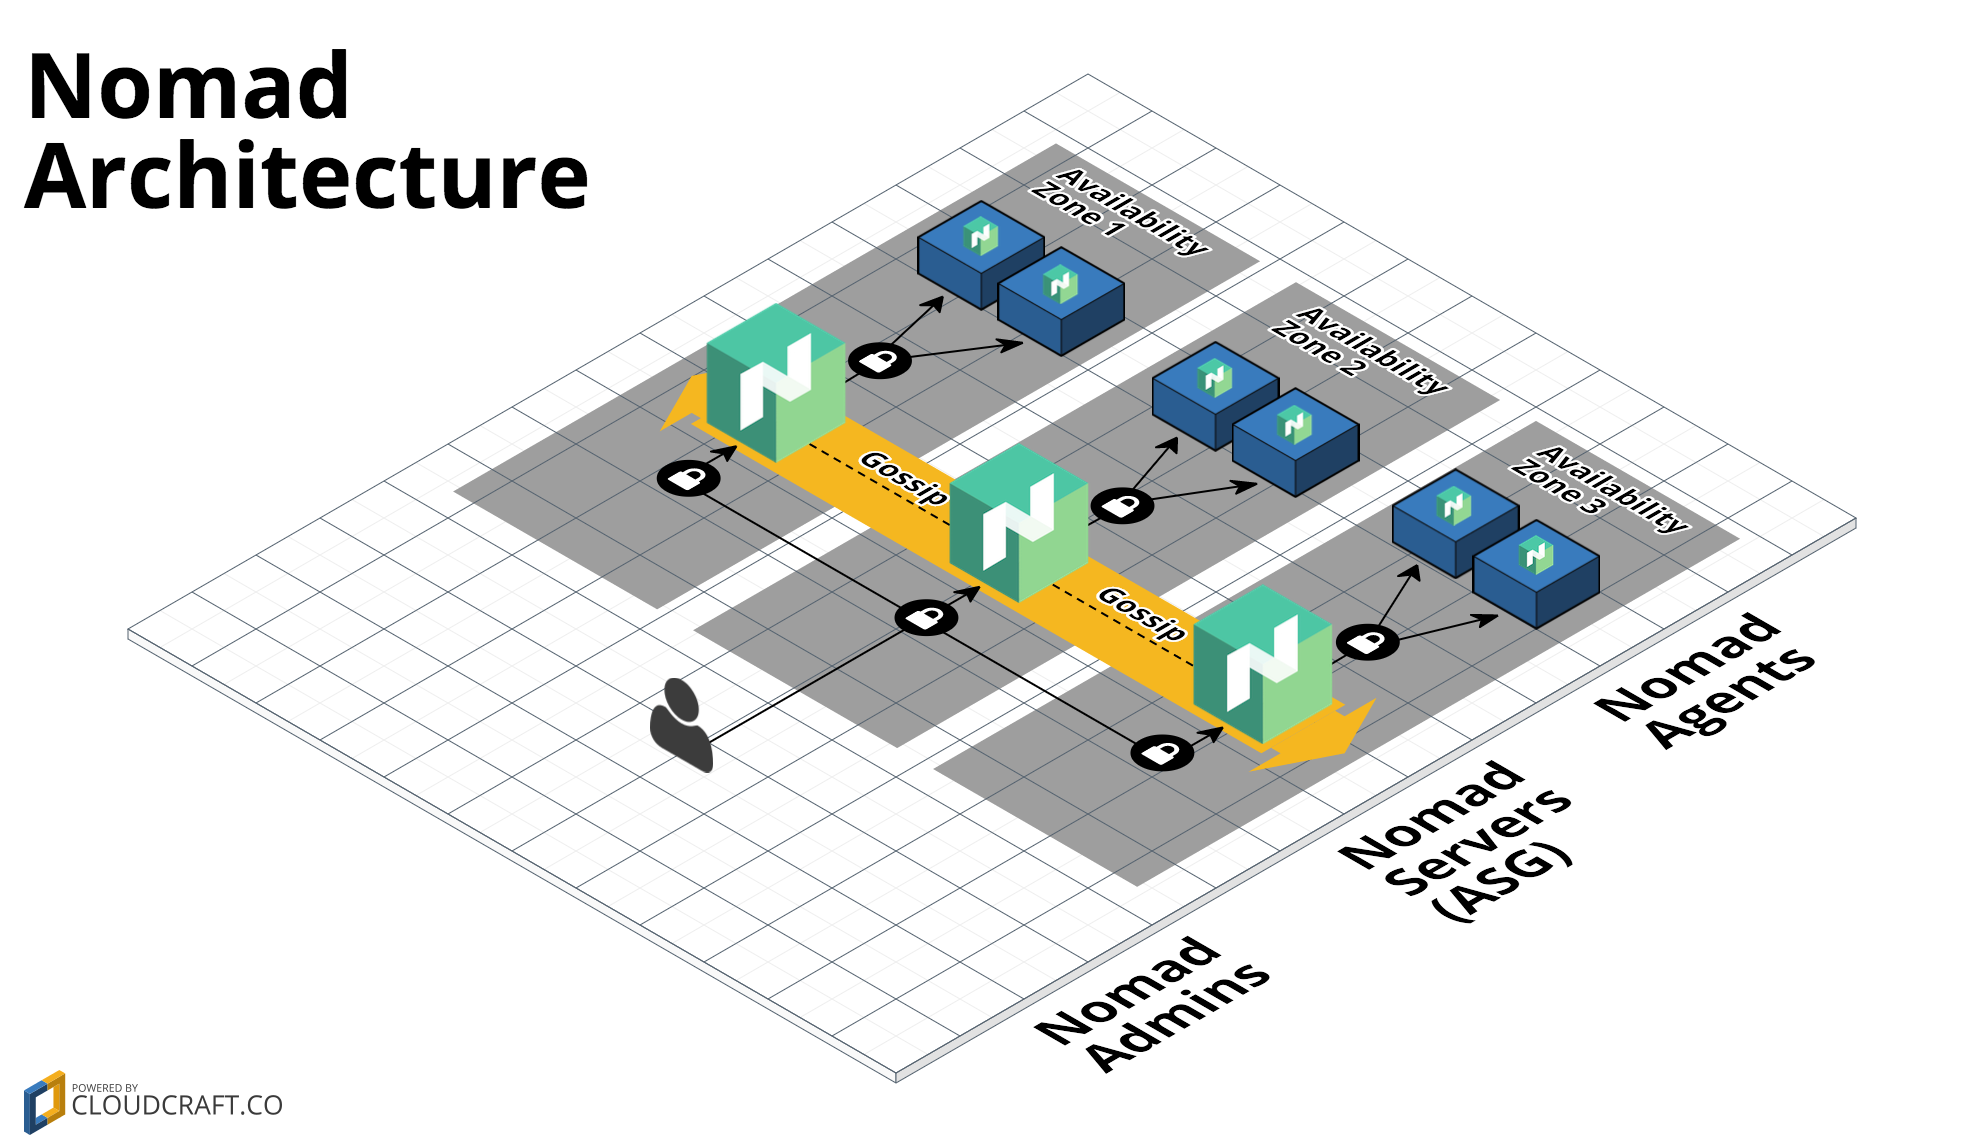
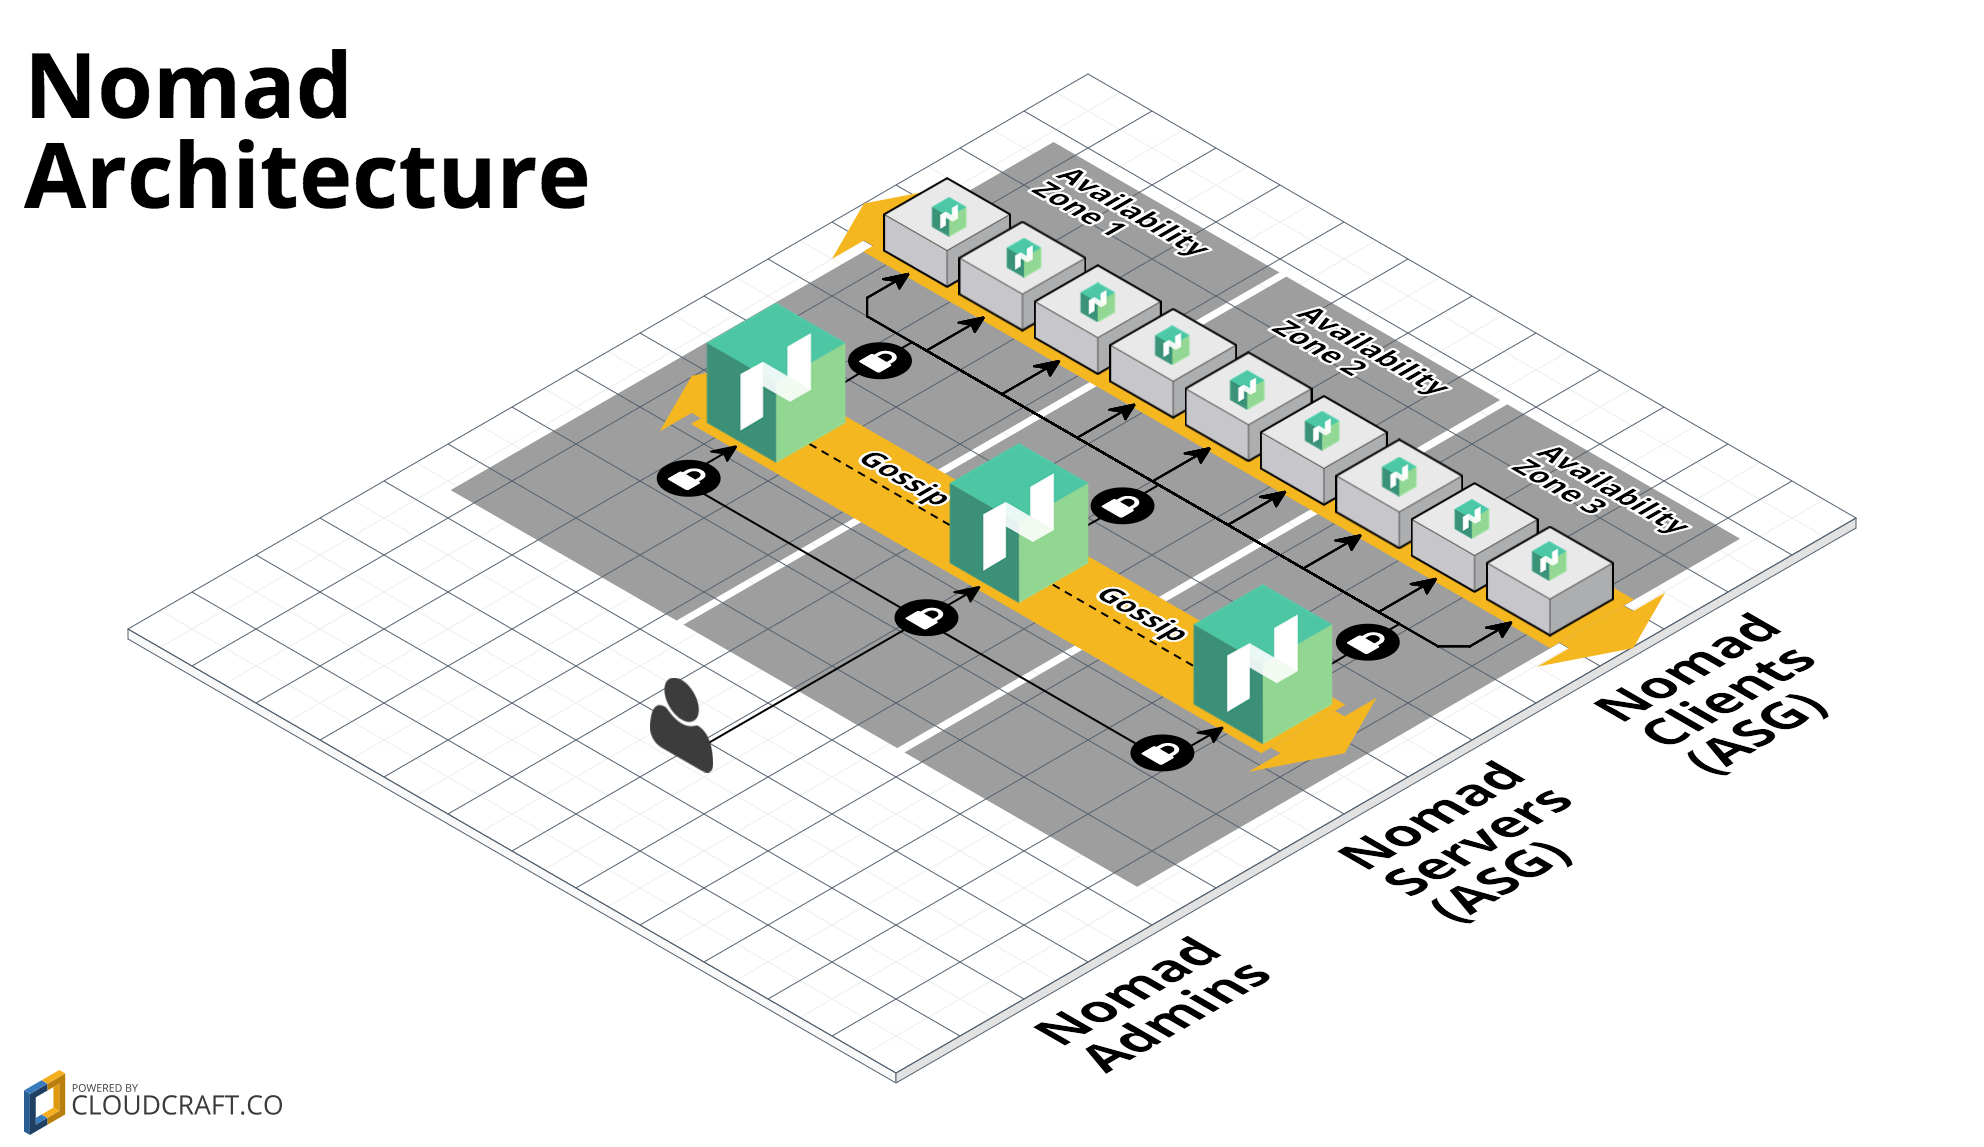
Add explanation and support for Nomad servers and Nomad clients

diff --git a/README.md b/README.md
@@ -2,7 +2,9 @@
 
 This repo contains a Blueprint for how to deploy a [Nomad](https://www.nomadproject.io/) cluster on 
 [AWS](https://aws.amazon.com/) using [Terraform](https://www.terraform.io/). Nomad is a distributed, highly-available 
-data-center aware scheduler. 
+data-center aware scheduler. A Nomad cluster typically includes a small number of server nodes, which are responsible 
+for being part of the [concensus quorum](https://www.consul.io/docs/internals/consensus.html), and a larger number of 
+client nodes, which are used for running jobs:
 
 ![Nomad architecture](/_docs/architecture.png)
 
@@ -16,8 +18,9 @@ This Blueprint includes:
   [User Data](http://docs.aws.amazon.com/AWSEC2/latest/UserGuide/user-data.html#user-data-shell-scripts) 
   script to fire up Nomad while the server is booting.
 
-* [nomad-cluster](/modules/nomad-cluster): Terraform code to deploy a Nomad AMI across an [Auto Scaling 
+* [nomad-cluster](/modules/nomad-cluster): Terraform code to deploy a cluster of Nomad servers using an [Auto Scaling 
   Group](https://aws.amazon.com/autoscaling/).
+    
   
 
 
@@ -59,10 +62,11 @@ Click on each of the modules above for more details.
 
 <!-- TODO: update the consul-aws-blueprint URL to the final URL -->
 
-To use Nomad, you must also have a [Consul](https://www.consul.io/) cluster deployed. The easiest way to deploy Consul
-on AWS is to use the [Consul AWS Blueprint](https://github.com/gruntwork-io/consul-aws-blueprint).
-
-You have two deployment options:
+To run a Nomad cluster, you need to deploy a small number of server nodes (typically 3), which are responsible 
+for being part of the [concensus quorum](https://www.consul.io/docs/internals/consensus.html), and a larger number of 
+client nodes, which are used for running jobs. You must also have a [Consul](https://www.consul.io/) cluster deployed
+(see the [Consul AWS Blueprint](https://github.com/gruntwork-io/consul-aws-blueprint)) in one of the following 
+configurations:
 
 1. [Deploy Nomad and Consul in the same cluster](#deploy-nomad-and-consul-in-the-same-cluster)
 1. [Deploy Nomad and Consul in separate clusters](#deploy-nomad-and-consul-in-separate-clusters)
@@ -70,16 +74,20 @@ You have two deployment options:
 
 ### Deploy Nomad and Consul in the same cluster
 
-1. Use the scripts from the [install-consul 
-   module](https://github.com/gruntwork-io/consul-aws-blueprint/tree/master/modules/install-consul) and the
-   [install-nomad module](/modules/install-nomad) in a Packer template to create an AMI with Consul and Nomad.
-1. Deploy that AMI across an Auto Scaling Group using the [consul-cluster 
-   module](https://github.com/gruntwork-io/consul-aws-blueprint/tree/master/modules/consul-cluster).
-1. Execute the [run-consul script](https://github.com/gruntwork-io/consul-aws-blueprint/tree/master/modules/run-consul) 
-   during boot on each Instance in the Auto Scaling Group to have that Instance automatically find other Instances and 
-   form a Consul cluster.
-1. Execute the [run-nomad script](/modules/run-nomad) during boot on each Instance in the Auto Scaling Group to 
-   have that Instance automatically find other Instances and form a Nomad cluster.
+1. Use the [install-consul 
+   module](https://github.com/gruntwork-io/consul-aws-blueprint/tree/master/modules/install-consul) from the Consul AWS
+   Blueprint and the [install-nomad module](/modules/install-nomad) from this Blueprint in a Packer template to create 
+   an AMI with Consul and Nomad.
+1. Deploy a small number of server nodes (typically, 3) using the [consul-cluster 
+   module](https://github.com/gruntwork-io/consul-aws-blueprint/tree/master/modules/consul-cluster). Execute the 
+   [run-consul script](https://github.com/gruntwork-io/consul-aws-blueprint/tree/master/modules/run-consul) and the
+   [run-nomad script](/modules/run-nomad) on each node during boot, setting the `--server` flag to `true` in both 
+   scripts.
+1. Deploy as many client nodes as you need using the [consul-cluster 
+   module](https://github.com/gruntwork-io/consul-aws-blueprint/tree/master/modules/consul-cluster). Execute the 
+   [run-consul script](https://github.com/gruntwork-io/consul-aws-blueprint/tree/master/modules/run-consul) and the
+   [run-nomad script](/modules/run-nomad) on each node during boot, setting the `--server` flag to `false` in both 
+   scripts.
 
 Check out the [nomad-consul-colocated-cluster example](/examples/nomad-consul-colocated-cluster example) for working
 sample code.
@@ -90,10 +98,11 @@ sample code.
 1. Deploy a standalone Consul cluster by following the instructions in the [Consul AWS 
    Blueprint](https://github.com/gruntwork-io/consul-aws-blueprint).
 1. Use the scripts from the [install-nomad module](/modules/install-nomad) in a Packer template to create a Nomad AMI.
-1. Deploy that AMI across an Auto Scaling Group using the [nomad-cluster module](/modules/nomad).
-1. Execute the [run-nomad script](/modules/run-nomad) during boot on each Instance in the Auto Scaling Group to 
-   have that Instance automatically find other Instances and form a Nomad cluster. You will need to configure each 
-   Instance with the connection details for your standalone Consul cluster.
+1. Deploy a small number of server nodes (typically, 3) using the [nomad-cluster module](/modules/nomad). Execute the    
+   [run-nomad script](/modules/run-nomad) on each node during boot, setting the `--server` flag to `true`. You will 
+   need to configure each node with the connection details for your standalone Consul cluster.   
+1. Deploy as many client nodes as you need using the [nomad-cluster module](/modules/nomad). Execute the 
+   [run-nomad script](/modules/run-nomad) on each node during boot, setting the `--server` flag to `false`.
 
 Check out the [nomad-consul-separate-cluster example](/examples/nomad-consul-separate-cluster example) for working
 sample code.

diff --git a/modules/run-nomad/README.md b/modules/run-nomad/README.md
@@ -14,10 +14,17 @@ There is a good chance it will work on other flavors of Debian, CentOS, and RHEL
 ## Quick start
 
 This script assumes you installed it, plus all of its dependencies (including Nomad itself), using the [install-nomad 
-module](/modules/install-nomad). The default install path is `/opt/nomad/bin`, so to start Nomad, you just run:
+module](/modules/install-nomad). The default install path is `/opt/nomad/bin`, so to start Nomad in server mode, you 
+run:
 
 ```
-/opt/nomad/bin/run-nomad --cluster-size 3
+/opt/nomad/bin/run-nomad --server true --cluster-size 3
+```
+
+To start Nomad in client mode, you run:
+
+```
+/opt/nomad/bin/run-nomad --server false --cluster-size 3
 ```
 
 This will:
@@ -35,7 +42,7 @@ This will:
 We recommend using the `run-nomad` command as part of [User 
 Data](http://docs.aws.amazon.com/AWSEC2/latest/UserGuide/user-data.html#user-data-shell-scripts), so that it executes
 when the EC2 Instance is first booting. If you are running Consul on the same server, make sure to use this script 
-*after* Consul has booted. After runing `run-nomad` on that initial boot, the `supervisord` configuration 
+*after* Consul has booted. After running `run-nomad` on that initial boot, the `supervisord` configuration 
 will automatically restart Nomad if it crashes or the EC2 instance reboots.
 
 See the [nomad-consul-colocated-cluster example](/examples/nomad-consul-colocated-cluster example) and 
@@ -48,23 +55,26 @@ See the [nomad-consul-colocated-cluster example](/examples/nomad-consul-colocate
 
 The `run-nomad` script accepts the following arguments:
 
-* `cluster-size` (Required): The number of servers to expect in the Nomad cluster. 
+* `server` (required): Set to true to run in server mode and false to run in client mode.
+* `cluster-size` (Optional): The number of servers to expect in the Nomad cluster. Required if `--server` is `true`. 
 * `config-dir` (Optional): The path to the Nomad config folder. Default is to take the absolute path of `../config`, 
   relative to the `run-nomad` script itself.
 * `data-dir` (Optional): The path to the Nomad config folder. Default is to take the absolute path of `../data`, 
   relative to the `run-nomad` script itself.
 * `user` (Optional): The user to run Nomad as. Default is to use the owner of `config-dir`.
-* `no-sudo` (Optional): Nomad need root-level privilege to make use of operating system primitives for resource 
-  isolation, as those require elevated permissions (see [the 
+* `no-sudo` (Optional): Nomad agents make use of operating system primitives for resource isolation that require 
+  elevated (root) permissions (see [the 
   docs](https://www.nomadproject.io/intro/getting-started/running.html) for more info). If you set this flag, Nomad
-  will run without root-level privilege, which means certain task drivers will not be available.
+  will run without root-level privileges, which means certain task drivers will not be available. By default, this flag
+  is enabled if `--server` is `true` (server nodes don't need root-level privileges) and disabled if `--server` is 
+  `false`.
 * `skip-nomad-config`: If this flag is set, don't generate a Nomad configuration file. This is useful if you have
   a custom configuration file and don't want to use any of of the default settings from `run-nomad`. 
 
 Example:
 
 ```
-/opt/nomad/bin/run-nomad --cluster-size 3
+/opt/nomad/bin/run-nomad --server true --cluster-size 3
 ```
 
 
@@ -88,9 +98,11 @@ available.
   
 * [bind](https://www.nomadproject.io/docs/agent/configuration/index.html#bind_addr): Set to 0.0.0.0.
   
+* [client](https://www.nomadproject.io/docs/agent/configuration/client.html): This section is only set of `--server` is
+  `false`.
+  
 * [consul](https://www.nomadproject.io/docs/agent/configuration/consul.html): By default, set the Consul address to
-  `127.0.0.1:8500`, with the assumption that Nomad and Consul are colocated on the same server. If you are running 
-  Consul on separate servers, you may need to override this config.
+  `127.0.0.1:8500`, with the assumption that the Consul agent is running on the same server. 
 
 * [datacenter](https://www.nomadproject.io/docs/agent/configuration/index.html#datacenter): Set to the current 
   availability zone, as fetched from 
@@ -102,7 +114,8 @@ available.
 * [region](https://www.nomadproject.io/docs/agent/configuration/index.html#region): Set to the current AWS region, as 
   fetched from [Metadata](http://docs.aws.amazon.com/AWSEC2/latest/UserGuide/ec2-instance-metadata.html).
                                                                                       
-* [server](https://www.nomadproject.io/docs/agent/configuration/server.html): Set as follows:
+* [server](https://www.nomadproject.io/docs/agent/configuration/server.html): This section is only set of `--server` is
+  `true`.
 
     * [enabled](https://www.nomadproject.io/docs/agent/configuration/server.html#enabled): `true`.
     * [bootstrap_expect](https://www.nomadproject.io/docs/agent/configuration/server.html#bootstrap_expect): Set to the

diff --git a/examples/nomad-consul-separate-cluster/README.md b/examples/nomad-consul-separate-cluster/README.md
@@ -1,14 +1,14 @@
-# Nomad Cluster and Consul Cluster Example
+# Nomad and Consul Separate Clusters Example
 
-This folder shows an example of Terraform code that uses the [nomad-cluster module](/modules/nomad-cluster) from this
-Blueprint to deploy a [Nomad](https://www.nomadproject.io/) cluster across an Auto Scaling Group in 
-[AWS](https://aws.amazon.com/) and the [consul-cluster 
-module](https://github.com/gruntwork-io/consul-aws-blueprint/tree/master/modules/consul-cluster) from the Consul AWS
-Blueprint to deploy a separate [Consul](https://www.consul.io/) cluster across an Auto Scaling Group in 
-[AWS](https://aws.amazon.com/). If you want to run Nomad and Consul on the same cluster, see the 
-[nomad-consul-colocated-cluster example](/examples/nomad-consul-colocated-cluster) instead. 
+This folder shows an example of Terraform code to deploy a [Nomad](https://www.nomadproject.io/) cluster that connects 
+to a separate [Consul](https://www.consul.io/) cluster in [AWS](https://aws.amazon.com/) (if you want to run Nomad and 
+Consul in the same clusters, see the [nomad-consul-colocated-cluster example](/examples/nomad-consul-colocated-cluster) 
+instead). The Nomad cluster consists of two Auto Scaling Groups (ASGs): one with a small number of Nomad server 
+nodes, which are responsible for being part of the [concensus 
+quorum](https://www.consul.io/docs/internals/consensus.html), and one with a larger number of Nomad client nodes, which 
+are used to run jobs:
 
-![Nomad architecture](/_docs/architecture.png)
+![Nomad architecture](/_docs/architecture-nomad-consul-separate.png)
 
 You will need to create one [Amazon Machine Image (AMI)](http://docs.aws.amazon.com/AWSEC2/latest/UserGuide/AMIs.html) 
 that has Nomad installed, which you can do using the [nomad-only-ami example](/examples/nomad-only-ami)), and another
@@ -16,6 +16,7 @@ AMI that has Consul installed, which you can do using the [consul-ami
 example](https://github.com/gruntwork-io/consul-aws-blueprint/tree/master/examples/consul-ami).  
 
 For more info on how the Nomad cluster works, check out the [nomad-cluster](/modules/nomad-cluster) documentation.
+
 
 
 
@@ -38,5 +39,5 @@ To deploy a Nomad Cluster:
 
 After the `apply` command finishes, a Nomad and Consul cluster will boot up and discover each other.
  
-To see how to connect to the cluster and start reading/writing data, head over to the [How do you connect to the Nomad 
+To see how to connect to the cluster and start running jobs, head over to the [How do you connect to the Nomad 
 cluster?](/modules/nomad-cluster#how-do-you-connect-to-the-nomad-cluster) docs.

diff --git a/examples/nomad-consul-colocated-cluster/README.md b/examples/nomad-consul-colocated-cluster/README.md
@@ -1,18 +1,20 @@
-# Nomad and Consul Colocated Cluster Example
+# Nomad and Consul Co-located Cluster Example
 
-This folder shows an example of Terraform code that uses the [consul-cluster 
-module](https://github.com/gruntwork-io/consul-aws-blueprint/tree/master/modules/consul-cluster) module from the
-Consul Blueprint to deploy a cluster that has both [Consul](https://www.consul.io/) and 
-[Nomad](https://www.nomadproject.io/) on top of an Auto Scaling Group in [AWS](https://aws.amazon.com/).  If you want to 
-run Nomad and Consul on separate clusters, see the [nomad-consul-separate-cluster 
-example](/examples/nomad-consul-separate-cluster) instead.
+This folder shows an example of Terraform code to deploy a [Nomad](https://www.nomadproject.io/) cluster co-located 
+with a [Consul](https://www.consul.io/) cluster in [AWS](https://aws.amazon.com/) (if you want to run Nomad and Consul 
+on separate clusters, see the [nomad-consul-separate-cluster example](/examples/nomad-consul-separate-cluster) 
+instead). The cluster consists of two Auto Scaling Groups (ASGs): one with a small number of Nomad and Consul server 
+nodes, which are responsible for being part of the [concensus 
+quorum](https://www.consul.io/docs/internals/consensus.html), and one with a larger number of Nomad and Consul client 
+nodes, which are used to run jobs:
 
-![Nomad architecture](/_docs/architecture.png)
+![Nomad architecture](/_docs/architecture-nomad-consul-colocated.png)
 
 You will need to create an [Amazon Machine Image (AMI)](http://docs.aws.amazon.com/AWSEC2/latest/UserGuide/AMIs.html) 
 that has Nomad and Consul installed, which you can do using the [nomad-consul-ami example](/examples/nomad-consul-ami)).  
 
 For more info on how the Nomad cluster works, check out the [nomad-cluster](/modules/nomad-cluster) documentation.
+
 
 
 
@@ -32,5 +34,5 @@ To deploy a Nomad Cluster:
 
 After the `apply` command finishes, the EC2 Instances will start, discover each other, and form a cluster.
  
-To see how to connect to the cluster and start reading/writing data, head over to the [How do you connect to the Nomad 
+To see how to connect to the cluster and start running jobs, head over to the [How do you connect to the Nomad 
 cluster?](/modules/nomad-cluster#how-do-you-connect-to-the-nomad-cluster) docs.

diff --git a/modules/nomad-cluster/README.md b/modules/nomad-cluster/README.md
@@ -1,8 +1,8 @@
 # Nomad Cluster
 
 This folder contains a [Terraform](https://www.terraform.io/) module that can be used to deploy a 
-[Nomad](https://www.nomadproject.io/) cluster in [AWS](https://aws.amazon.com/) on top of an Auto Scaling Group. This module 
-is designed to deploy an [Amazon Machine Image (AMI)](http://docs.aws.amazon.com/AWSEC2/latest/UserGuide/AMIs.html) 
+[Nomad](https://www.nomadproject.io/) cluster in [AWS](https://aws.amazon.com/) on top of an Auto Scaling Group. This 
+module is designed to deploy an [Amazon Machine Image (AMI)](http://docs.aws.amazon.com/AWSEC2/latest/UserGuide/AMIs.html) 
 that had Nomad installed via the [install-nomad](/modules/install-nomad) module in this Blueprint.
 
 Note that this module assumes you have a separate [Consul](https://www.consul.io/) cluster already running. If you want
@@ -29,7 +29,7 @@ module "nomad_cluster" {
   # configuration and form a cluster with other Nomad nodes connected to that Consul cluster. 
   user_data = <<-EOF
               #!/bin/bash
-              /opt/nomad/bin/run-nomad --cluster-size 3
+              /opt/nomad/bin/run-nomad --server true --cluster-size 3
               EOF
   
   # ... See vars.tf for the other parameters you must define for the nomad-cluster module
